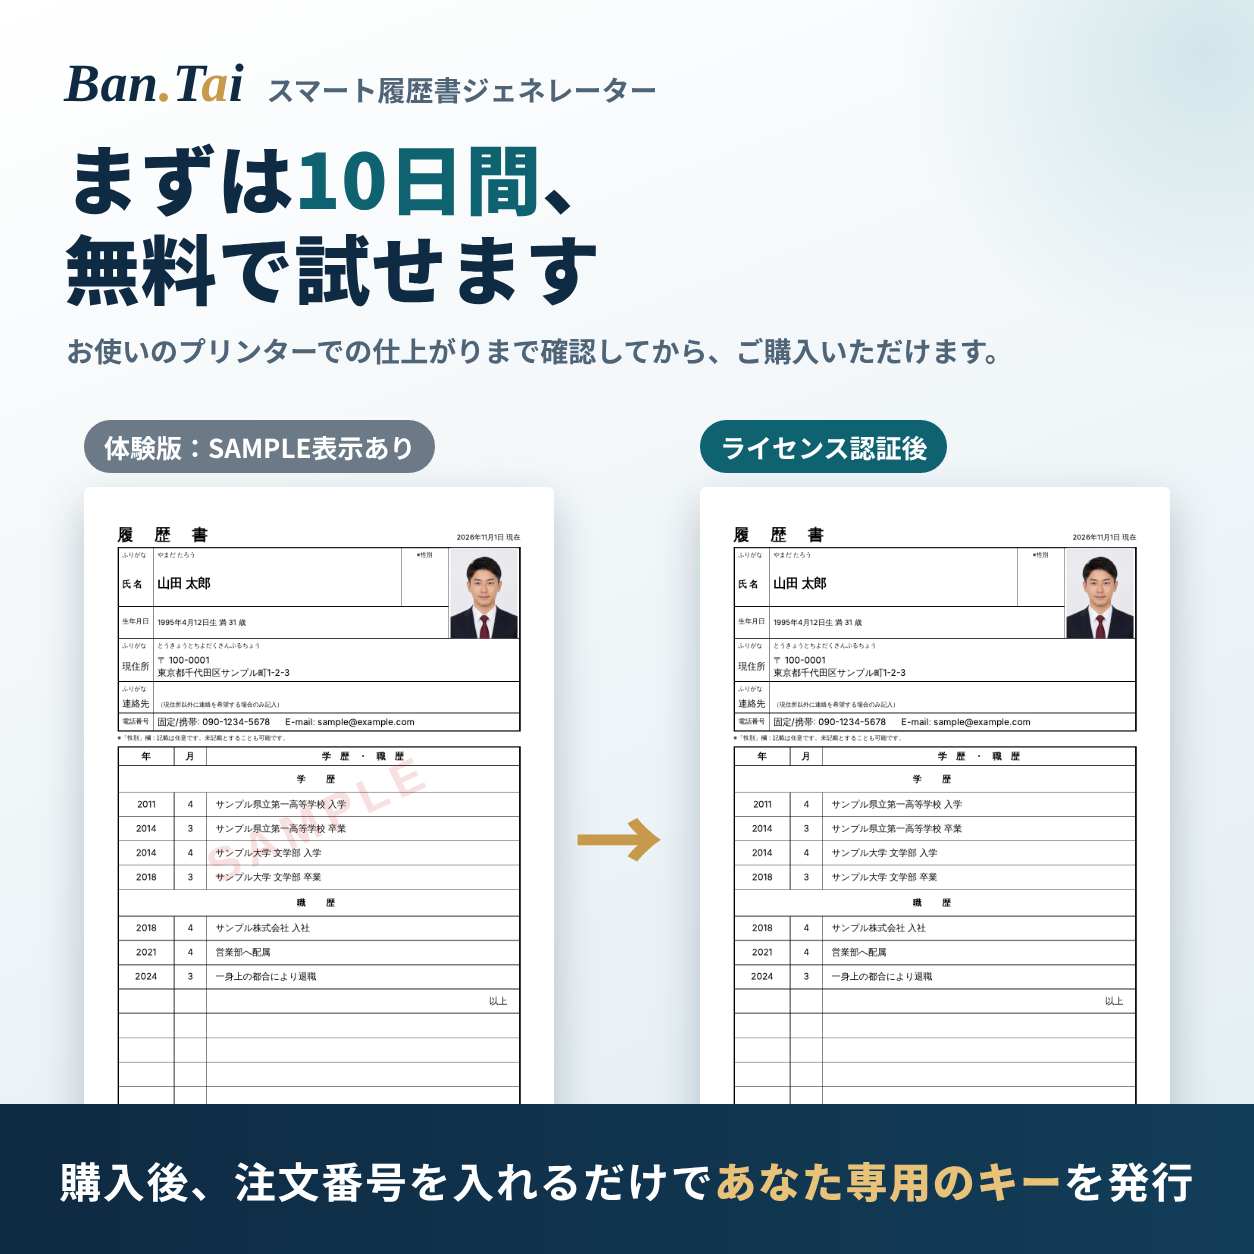
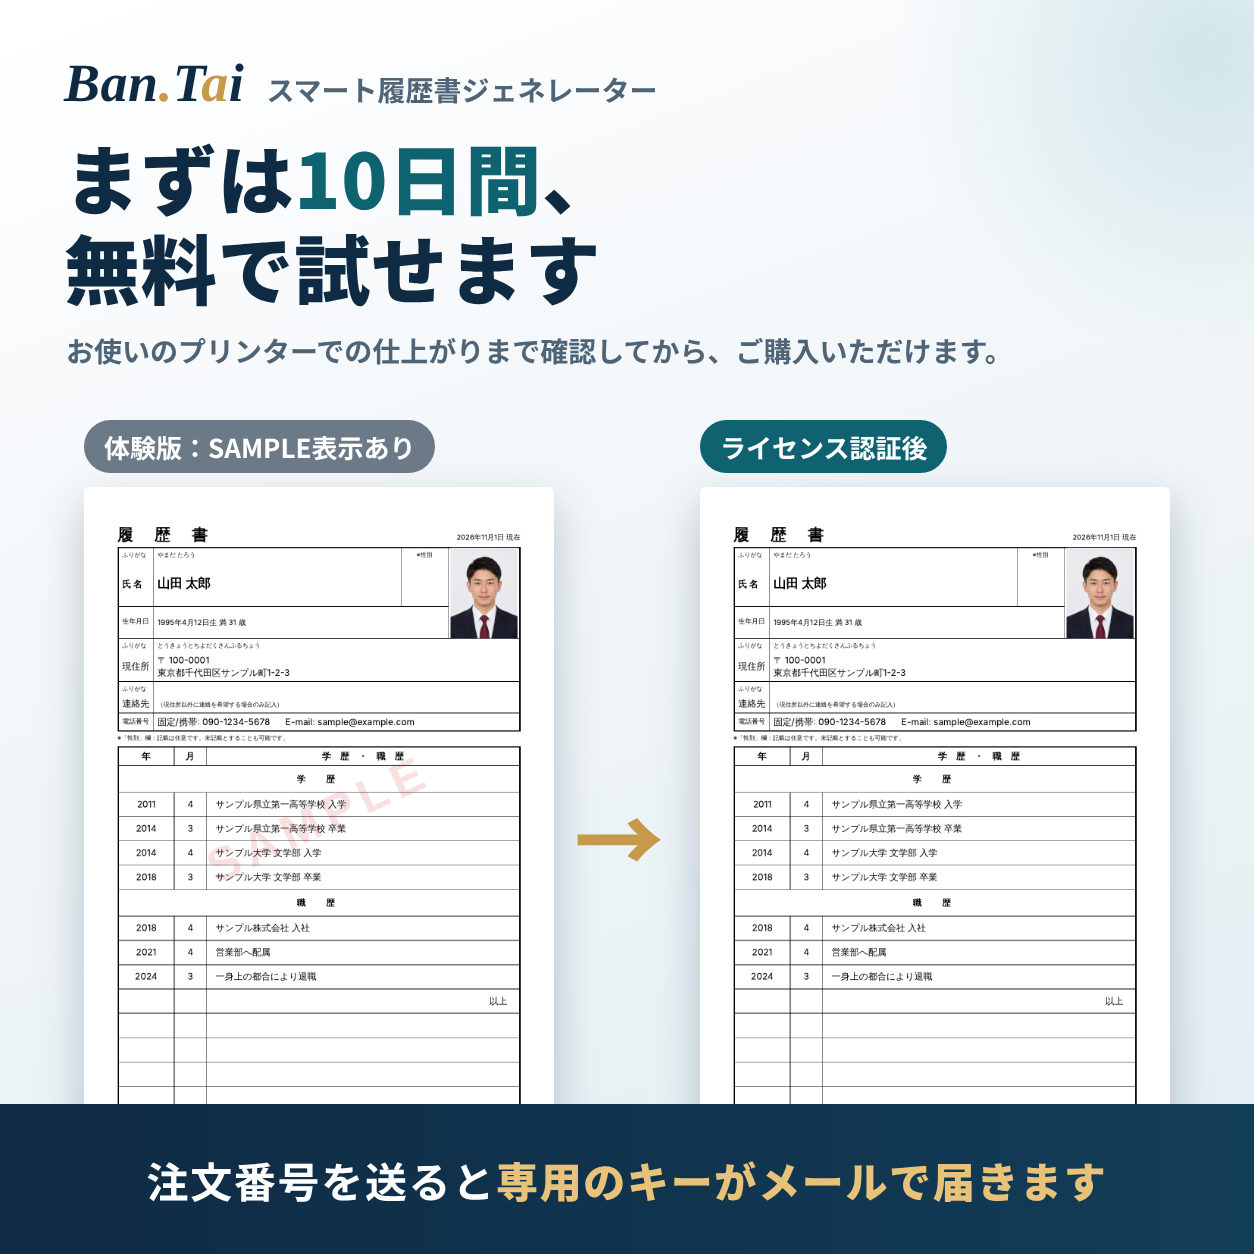
スマート履歴書ジェネレーター: ライセンスキーの受け取り方を申請フォーム方式に合わせて修正
Claude-Session: https://claude.ai/code/session_01GDrD7GjawgRXbGP6hBz5Z4

Changed region(s): [[0.0311, 0.9019, 0.9641, 0.9641]]

diff --git a/products/resume-generator/index.html b/products/resume-generator/index.html
@@ -110,7 +110,7 @@
           <span class="badge" style="width:fit-content; margin-bottom:12px;">BOOTHで販売中</span>
           <h3>まずは10日間、無料で試せます</h3>
           <p>体験版ですべての機能を確認できます。お使いのプリンターでの仕上がりまで確かめてから、ライセンスキーをご購入ください。</p>
-          <p>ライセンスキーは購入者ごとの個別キーです。購入後、案内に沿って注文番号を入力するとキーが表示されます。</p>
+          <p>ライセンスキーは購入者ごとの個別キーです。購入後、申請フォームに注文番号とメールアドレスを送ると、キーが自動でメールに届きます。</p>
         </div>
       </div>
     </section>
